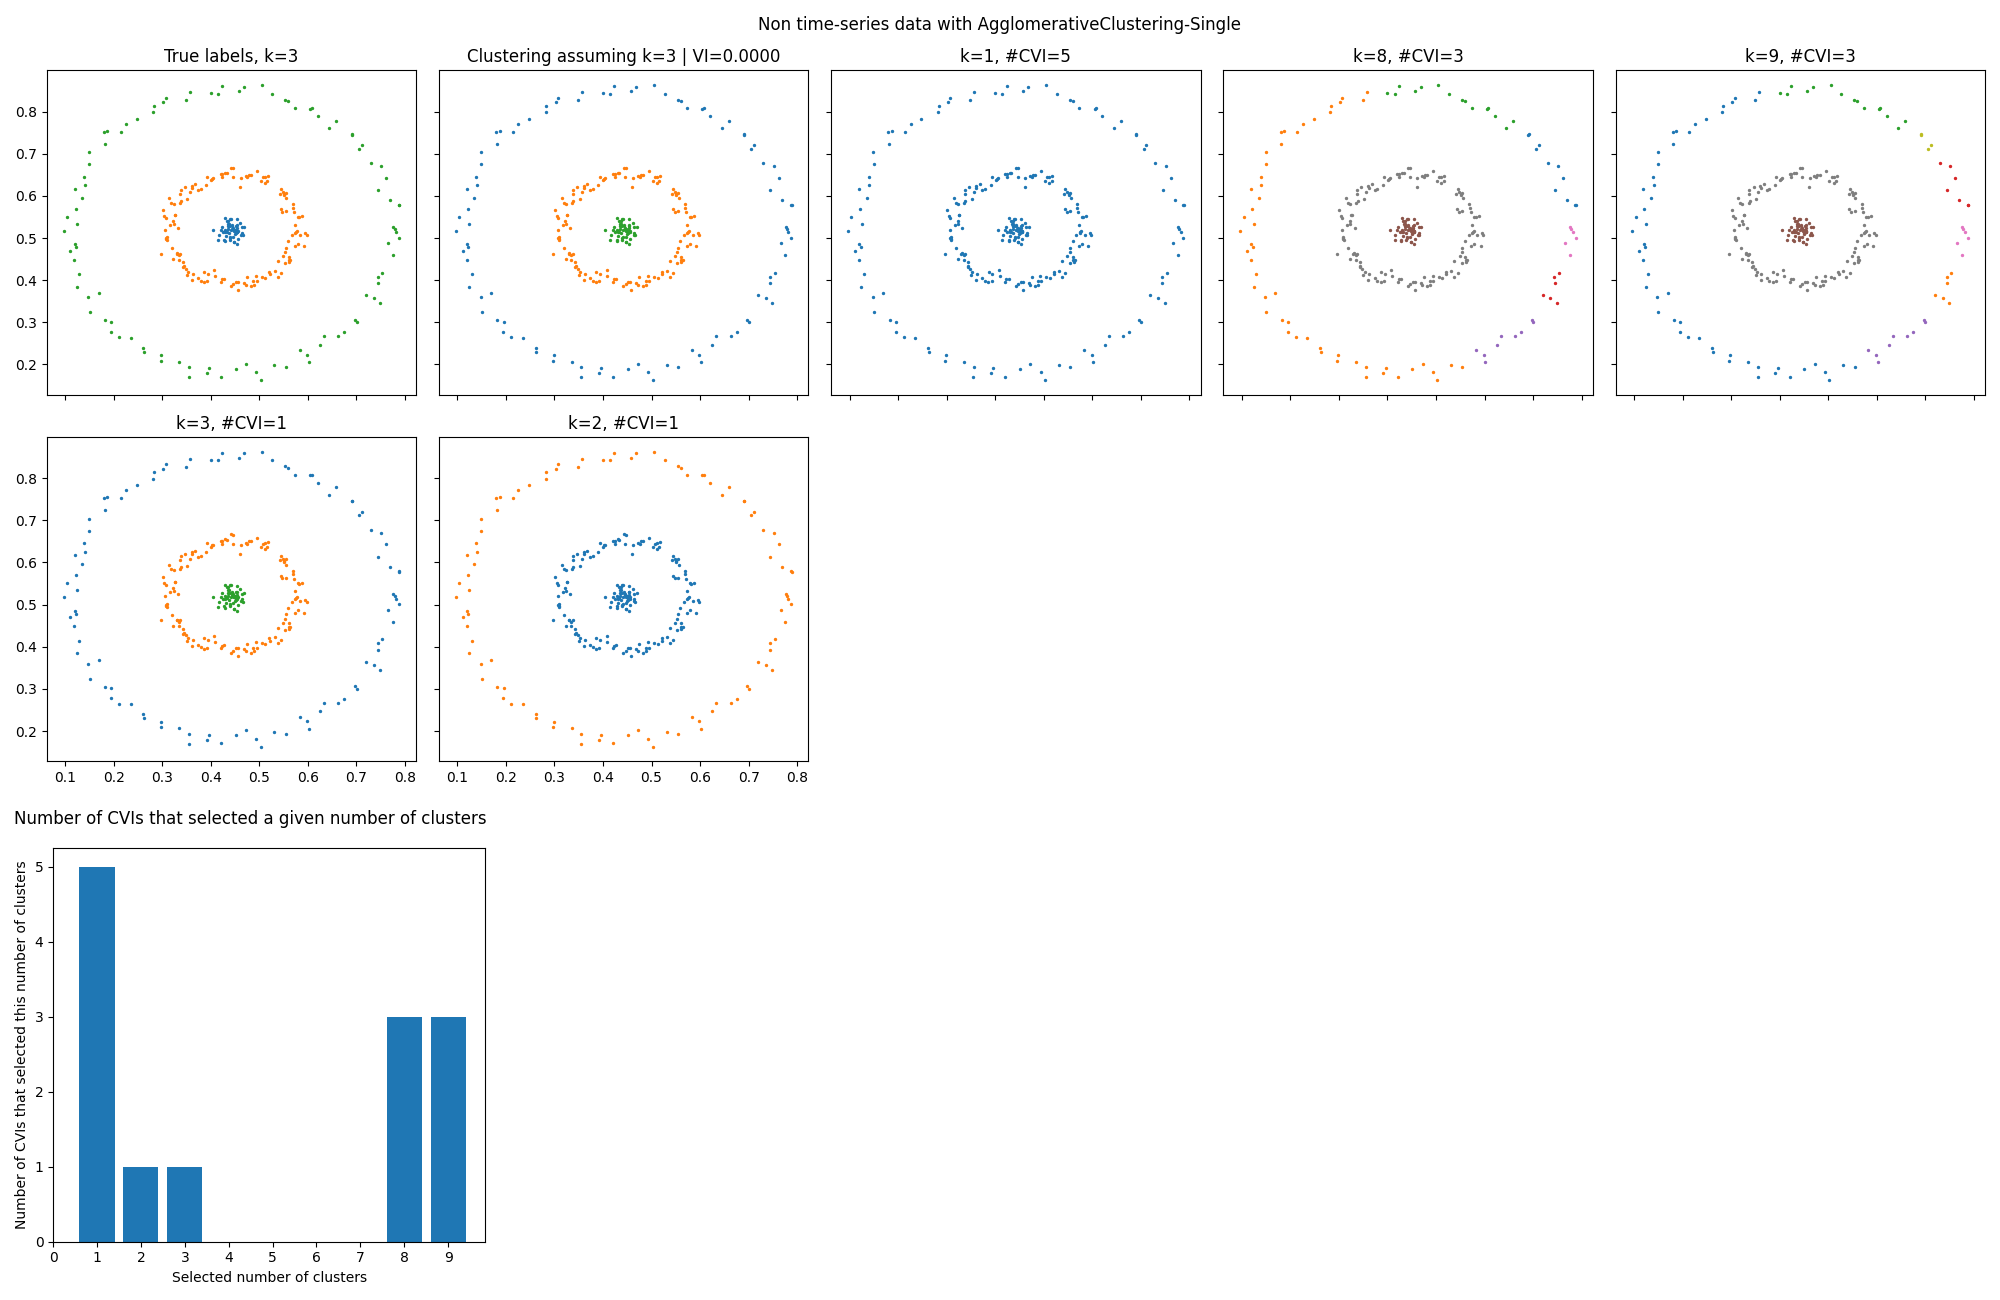
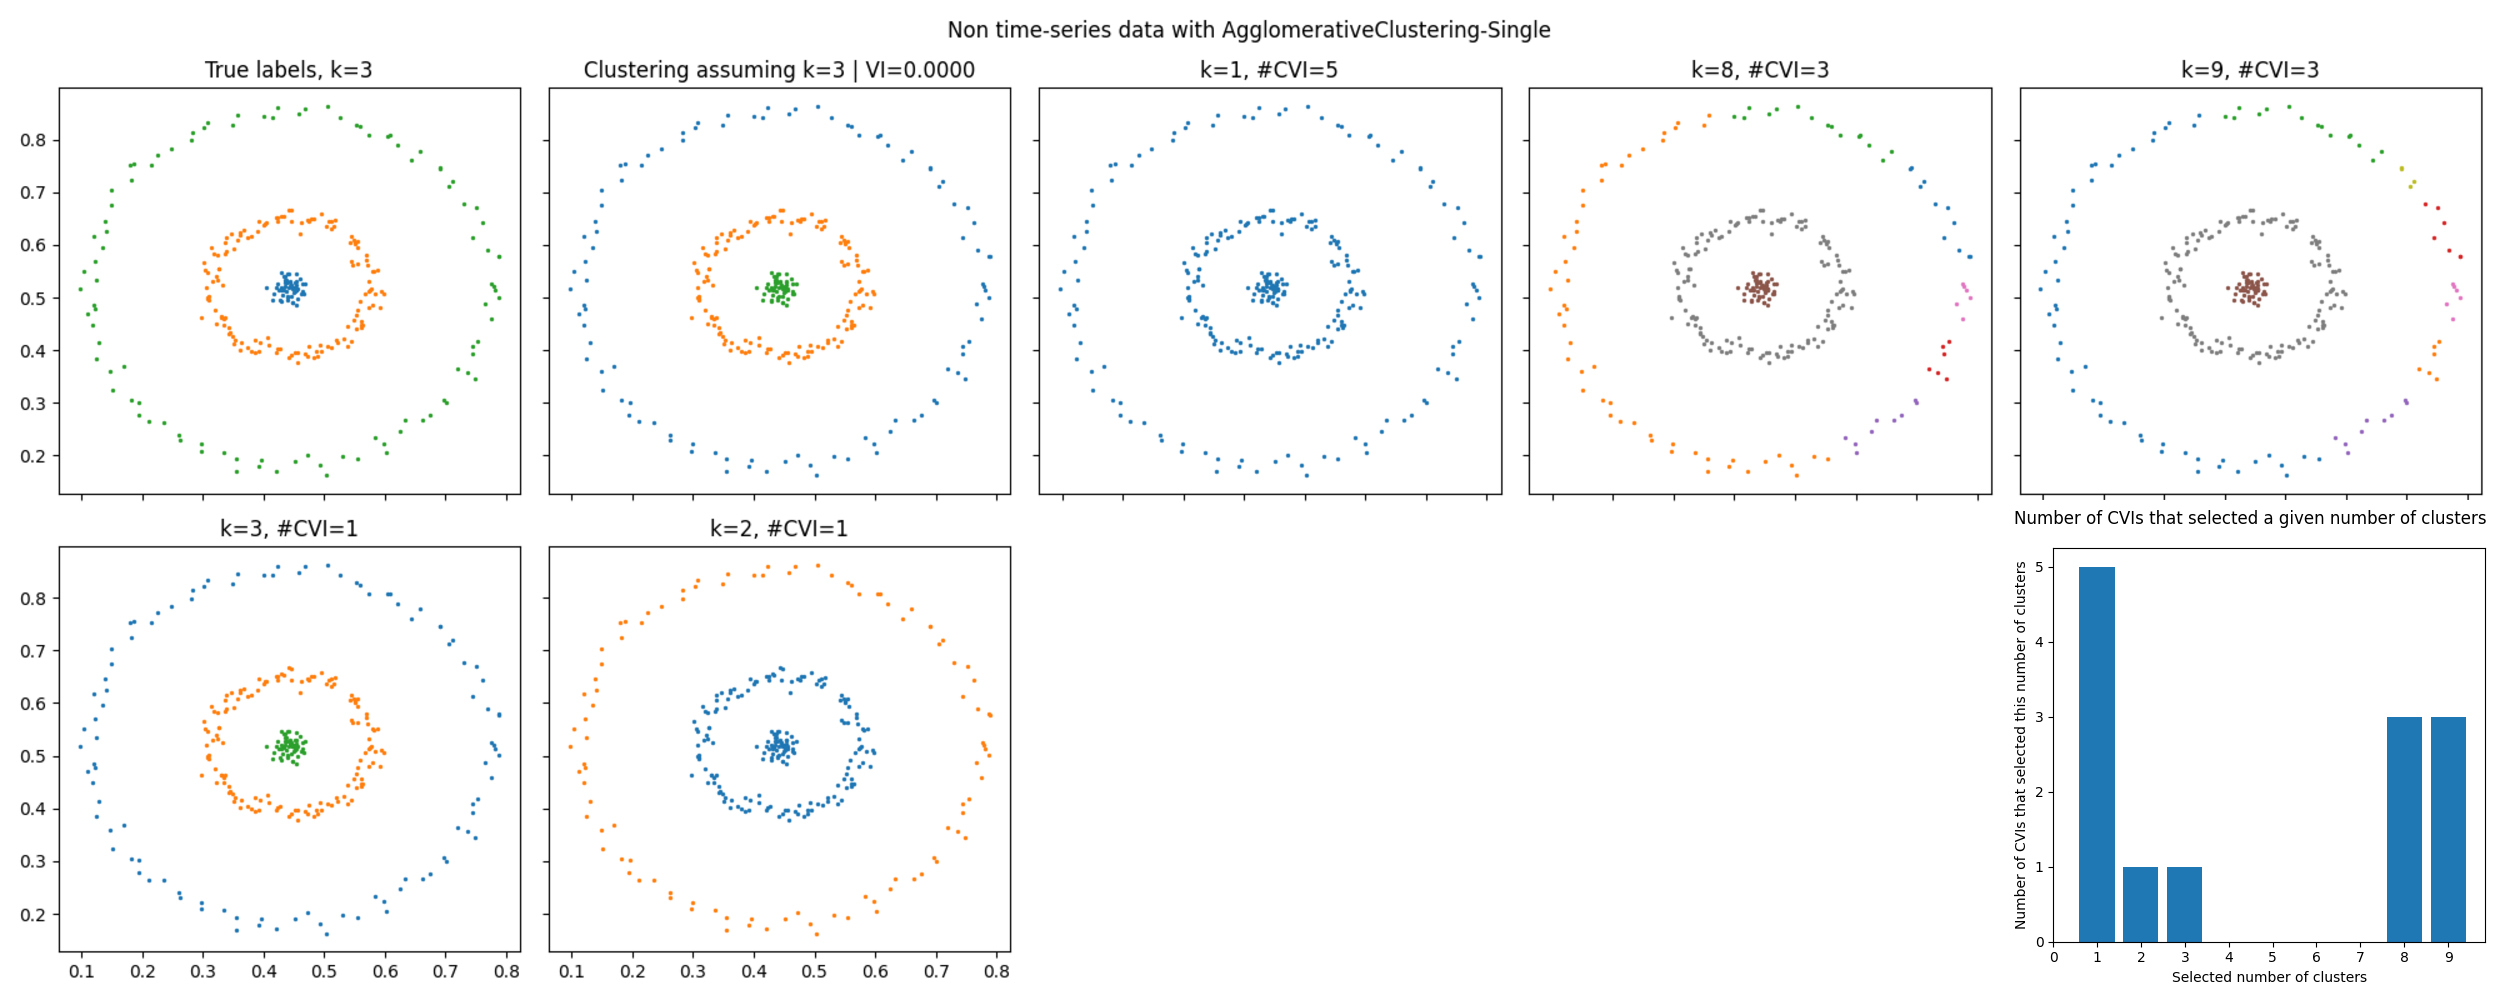
merged figures

diff --git a/paper/paper.md b/paper/paper.md
@@ -47,31 +47,23 @@ PyCVI fills that gap by implementing 12 state-of-the-art internal CVIs: Hartigan
 
 # Example
 
-![KMeans on static data. Selected clusterings according to each implemented CVIs. \label{fig:kmeans}](./Barton_data_KMeans-combined.png)
+![KMeans and AgglomerativeClustering on static data. Selected clusterings according to each implemented CVIs. \label{fig:barton}](./Barton_data.png)
 
-![AgglomerativeClustering on static data. Selected clusterings according to each implemented CVIs. \label{fig:agglo}](./Barton_data_AgglomerativeClustering_Single-combined.png)
-
-![KMeans on time-series data, with DTW.\label{fig:DTW}](./UCR_data_DTW_TimeSeriesKMeans.png)
-
-![KMeans on time-series data, without DTW.\label{fig:no_DTW}](./UCR_data_no_DTW_KMeans.png)
+![KMeans on time-series data, with and without DTW.\label{fig:UCR}](./UCR_data.png)
 
 We experimented 3 cases: static data [@barton2015clustering], time-series data [@UCRArchive2018] with euclidean distance and then with DTW as distance measure and and DBA as center of clusters. In addition, we used different clustering methods from different libraries: KMeans [@lloyd1982least] and AgglomerativeClustering [@Ward1963] from [scikit-learn](https://scikit-learn.org/stable/index.html), TimeSeriesKMeans from [aeon](https://www.aeon-toolkit.org/en/latest/index.html) and KMedoids [@Kaufman1990Partitioning] from [scikit-learn-extra](https://scikit-learn-extra.readthedocs.io/en/stable/) to showcase PyCVI integration with other clustering libraries.
 
-As a first example, we individually ran all CVIs implemented in PyCVI, selected the best clustering according to each CVI and plotted the selected clustering. In addition, we computed the variation of information (VI) between each selected clustering and the true clustering. High VI values there mean large distances between the true clustering and the computed clusterings, meaning poor computed clusterings. In \autoref{fig:kmeans} and \autoref{fig:agglo}, we can see the difference of quality when assuming the correct number of clusters between the AgglomerativeClustering and the KMeans clustering method on static data. This is independent of the CVI used, meaning that a poor clustering quality will be due to the clustering method.
+As a first example, we individually ran all CVIs implemented in PyCVI, selected the best clustering according to each CVI and plotted the selected clustering. In addition, we computed the variation of information (VI) between each selected clustering and the true clustering. High VI values there mean large distances between the true clustering and the computed clusterings, meaning poor computed clusterings. In \autoref{fig:barton}, we can see the difference of quality when assuming the correct number of clusters between the AgglomerativeClustering and the KMeans clustering method on static data. This is independent of the CVI used, meaning that a poor clustering quality will be due to the clustering method.
 
-In \autoref{fig:kmeans}, since the generated clusterings are poor due to the clustering method, the poor selection results gives us no information about the correct clustering, nor about the quality of the CVIs used. This motivates further research on clustering methods. However, in \autoref{fig:agglo}, the quality of the clustering is excellent, as indicated by a null VI. The corresponding selection results shown in the corresponding histogram tells us that the CVIs used here are not adapted to this dataset. This was expected since most CVIs rely on the cluster center to compute a good separation between clusters. The dataset here consisting of concentric circles, most CVIs fail to measure how well separated the clusters actually are. This illustrates the need of further research on CVIs, which is facilitated by PyCVI, notably in the case of concentric subgroups.
+In \autoref{fig:barton}, since the generated clusterings are poor due to the clustering method, the poor selection results gives us no information about the correct clustering, nor about the quality of the CVIs used. This motivates further research on clustering methods. However, in \autoref{fig:agglo}, the quality of the clustering is excellent, as indicated by a null VI. The corresponding selection results shown in the corresponding histogram tells us that the CVIs used here are not adapted to this dataset. This was expected since most CVIs rely on the cluster center to compute a good separation between clusters. The dataset here consisting of concentric circles, most CVIs fail to measure how well separated the clusters actually are. This illustrates the need of further research on CVIs, which is facilitated by PyCVI, notably in the case of concentric subgroups.
 
 Similarly, with time-series data, the quality of the clustering assuming the correct number of clusters varies between \autoref{fig:DTW} and \autoref{fig:no_DTW} although the same clustering method is used on the same dataset. This illustrates the difference between using DTW as a distance measure compared to using the euclidean distance, and between using DBA to compute the average of a group of time series and using the usual average.
 
 In a second example, we demonstrate cases of successful clustering and clustering selection, while showcasing an additional feature of PyCVI: `CVIAggregator`. `CVIAggregator` selects the best clustering by combining several CVIs and by using the majority vote among the clusterings individually selected by the combined CVI.
 
-![Agglomerative clustering. Selection done by a CVIAggregator using all implemented CVIs.\label{fig:all_cvis}](./Barton_data_AgglomerativeClustering_Single-all_cvis.png)
+![Selection done by a CVIAggregator using all implemented CVIs first and then with specific CVIs (GapStatistic, Silhouette, Dunn, CalinskiHarabasz and XieBeni).\label{fig:cvis}](./cvis.png)
 
-![KMedoids clustering. Selection done by a CVIAggregator with specific CVIs (GapStatistic, Silhouette, Dunn, CalinskiHarabasz and XieBeni).\label{fig:some_cvis}](./Barton_data_KMedoids-specific_cvis.png)
-
-In \autoref{fig:all_cvis}, we used `CVIAggregator` with all CVIs implemented in PyCVI. We see that the data was correctly clustered by the clustering method and the best clustering correctly selected. This is in spite of clusters of non-convex shapes.
-
-\autoref{fig:some_cvis} used `CVIAggregator` with only some of the implemented CVIs, as it could be done in practice when known characteristics of the dataset can help identify unadapted CVIs. Here as well, the data was correctly clustered and the best clustering correctly selected, in spite of clusters "touching" each other.
+In \autoref{fig:cvis}, we used `CVIAggregator` with first all CVIs implemented in PyCVI and then only with some of the implemented CVIs, as it could be done in practice when known characteristics of the dataset can help identify unadapted CVIs. We see that in both cases, the data was correctly clustered by the clustering method and the best clustering correctly selected. This is in spite of clusters of non-convex shapes in the first case and clusters "touching" each other in the second
 
 The code of these examples is available on the [GitHub repository](https://github.com/nglm/pycvi) of the package, and its [documentation](https://pycvi.readthedocs.io/en/latest/).
 
